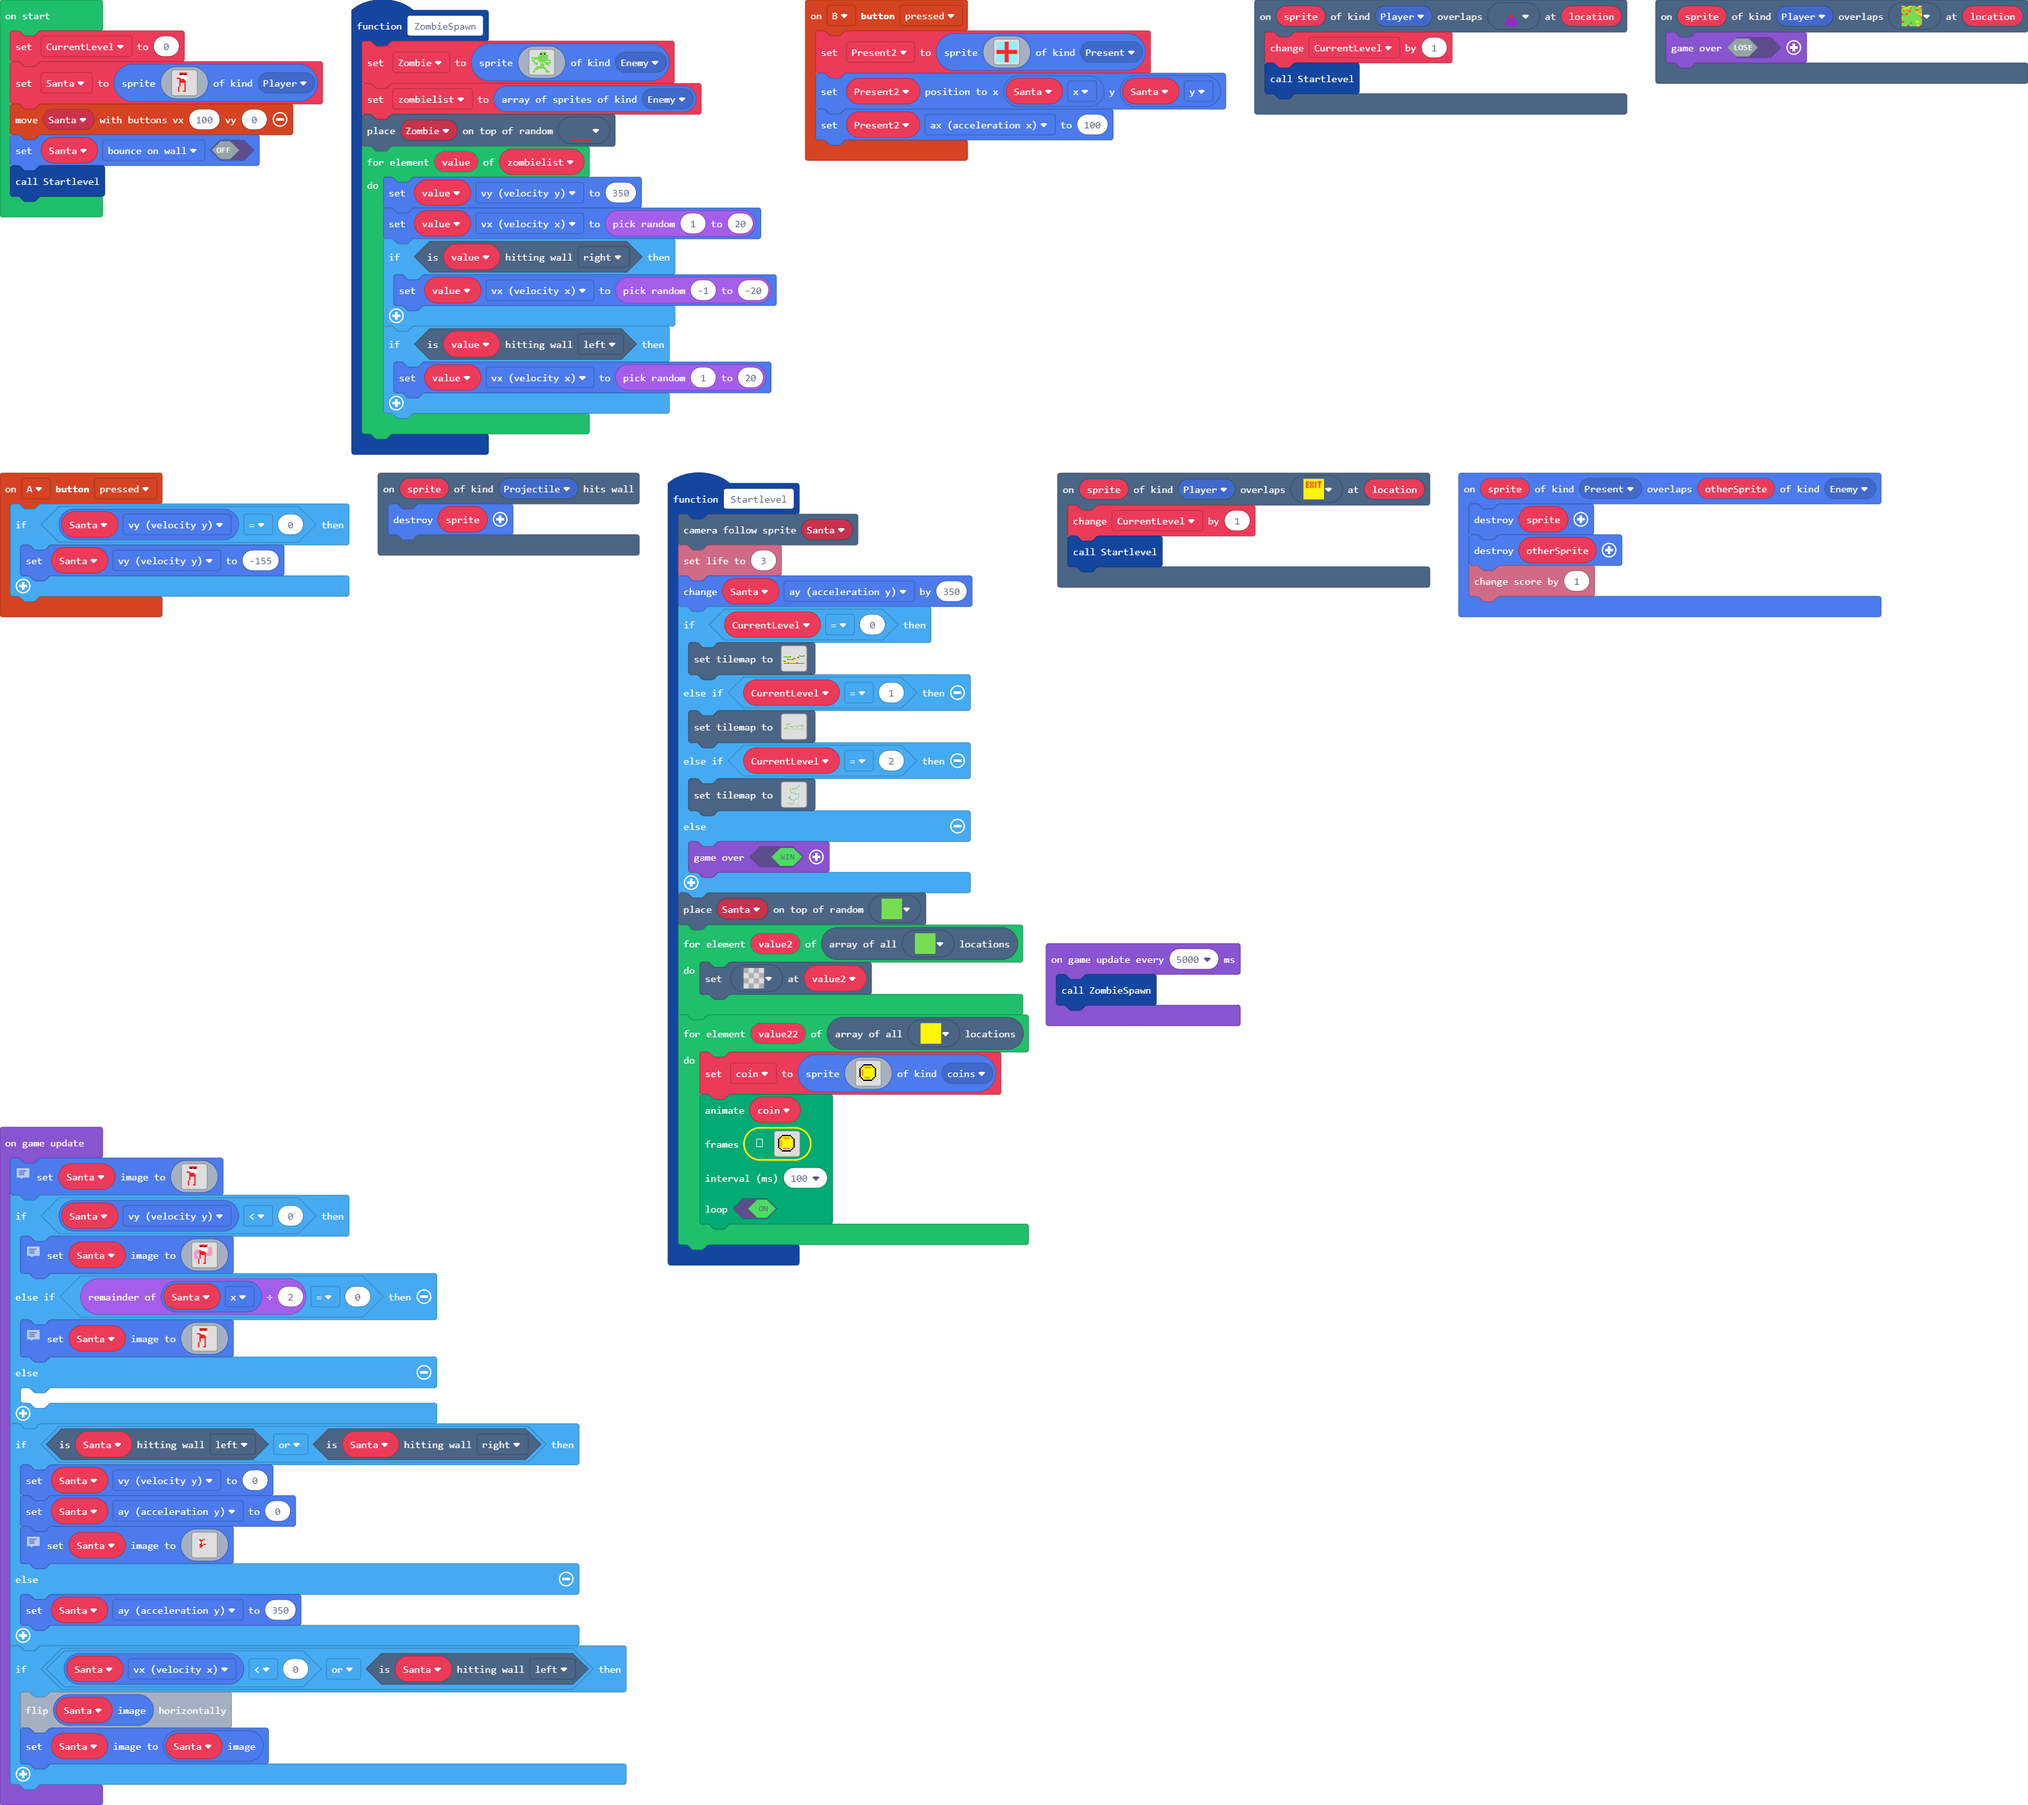
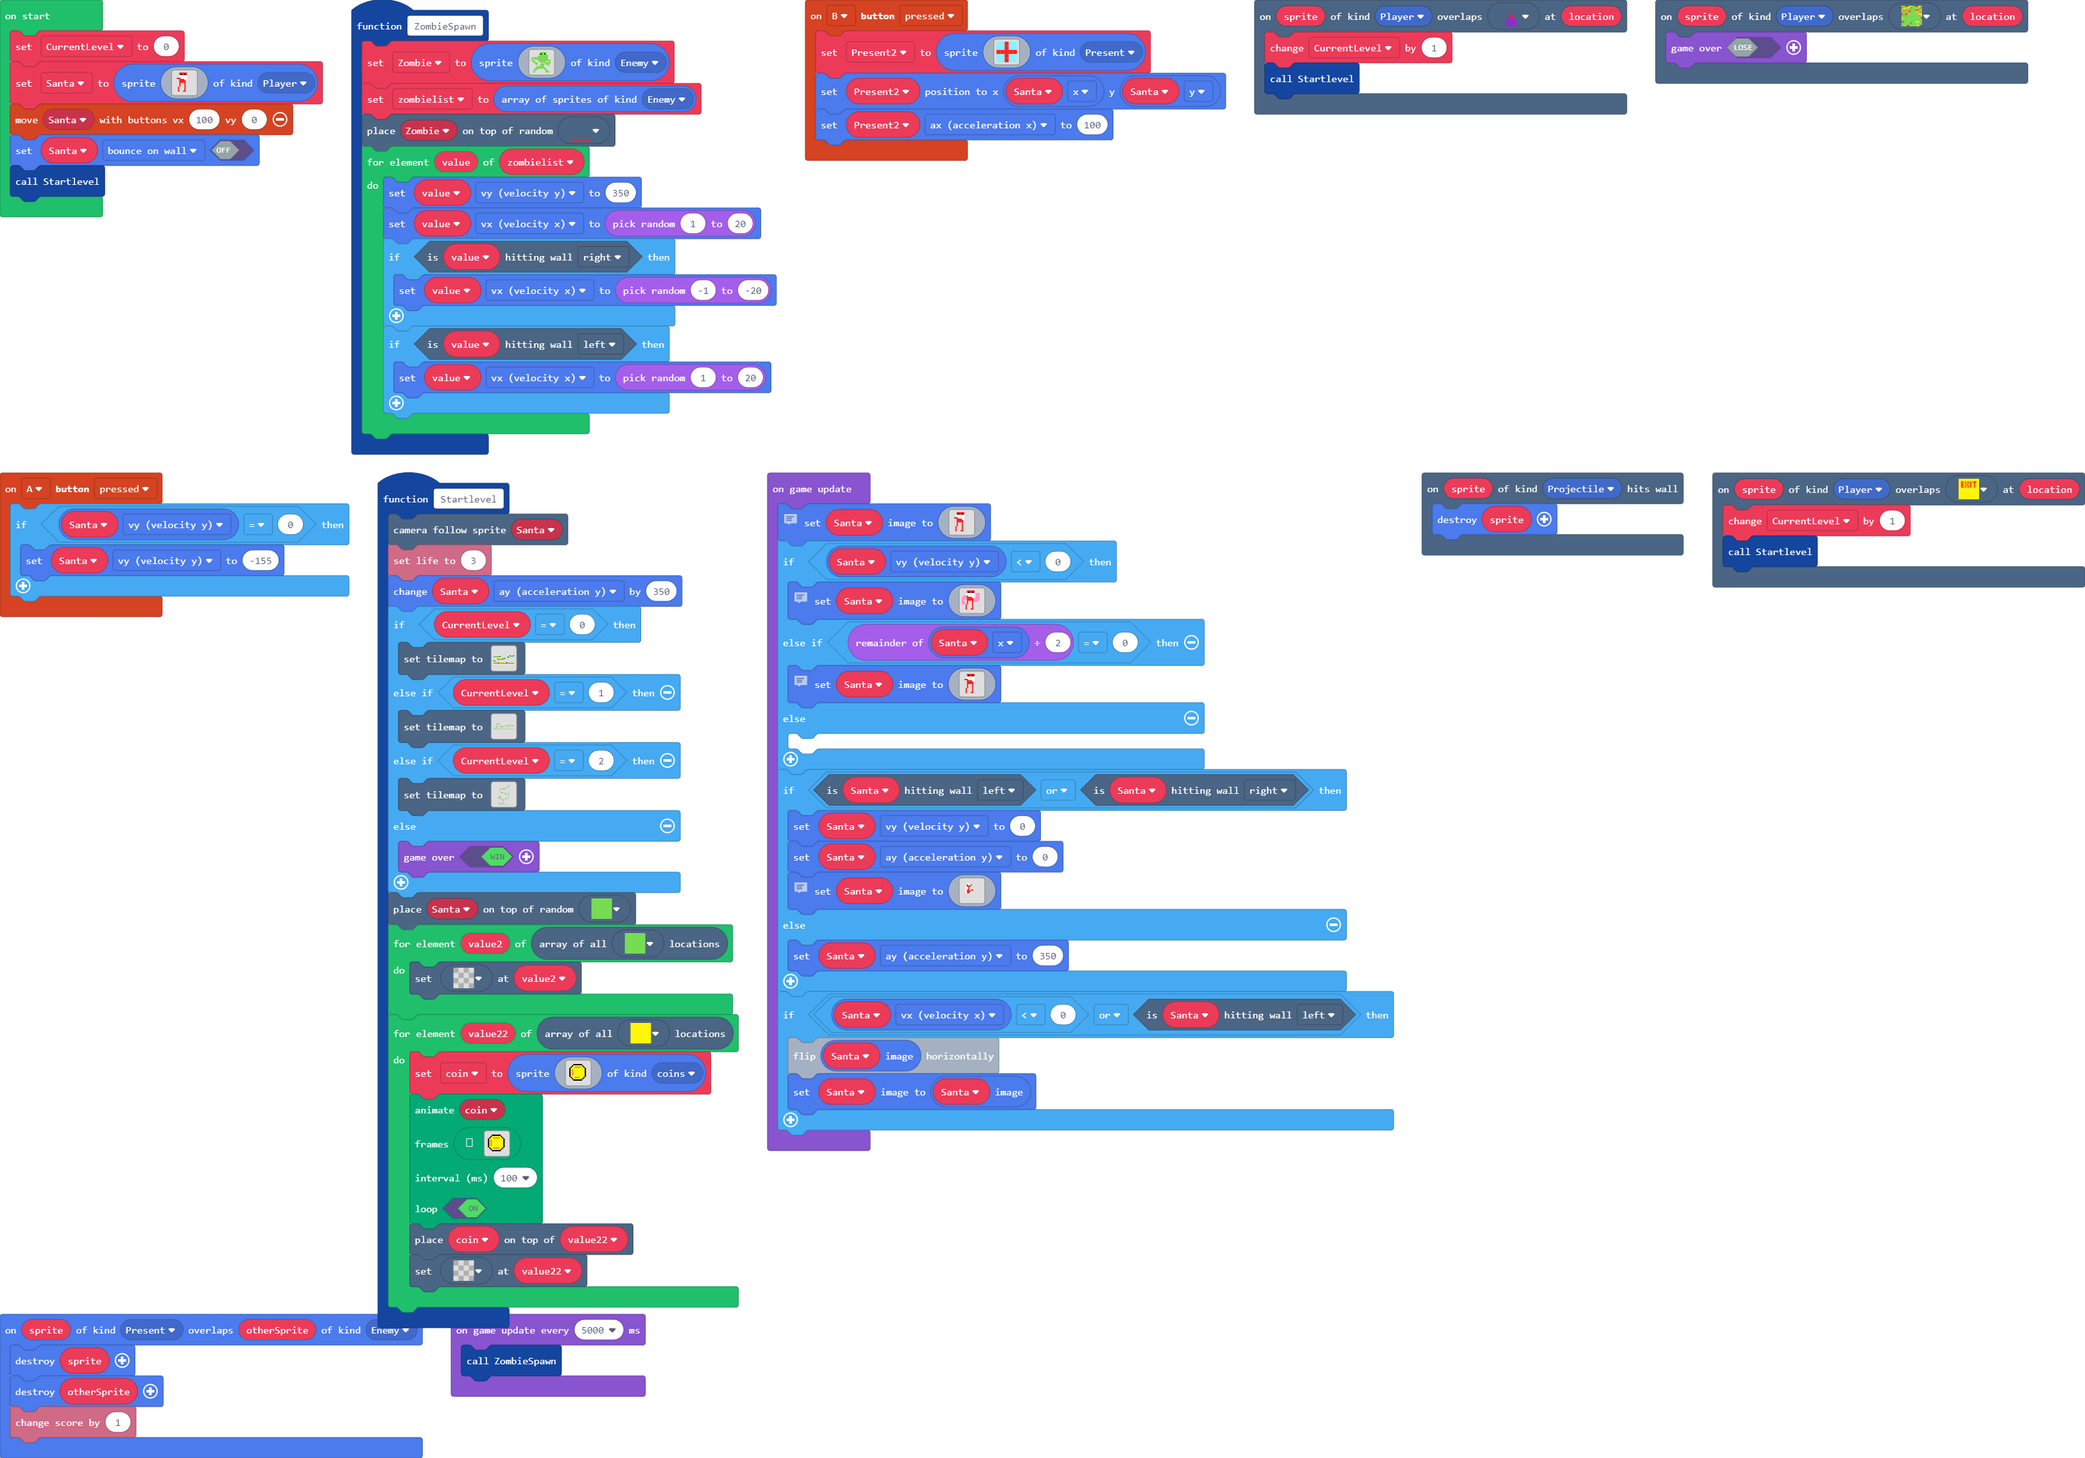
Update main.blocks, main.ts

diff --git a/main.ts b/main.ts
@@ -509,6 +509,8 @@ function Startlevel () {
         100,
         true
         )
+        tiles.placeOnTile(coin, value22)
+        tiles.setTileAt(value22, myTiles.tile0)
     }
 }
 scene.onOverlapTile(SpriteKind.Player, myTiles.tile2, function (sprite, location) {
